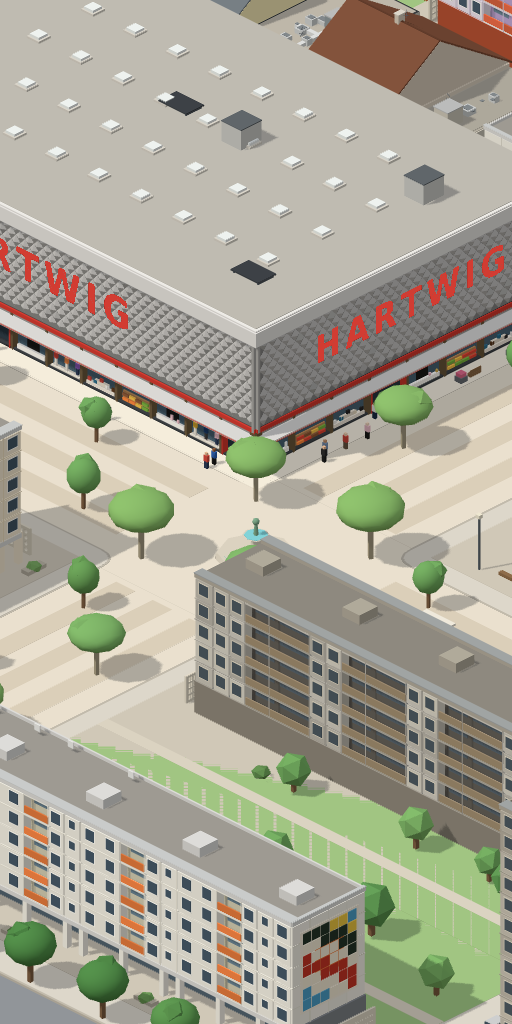
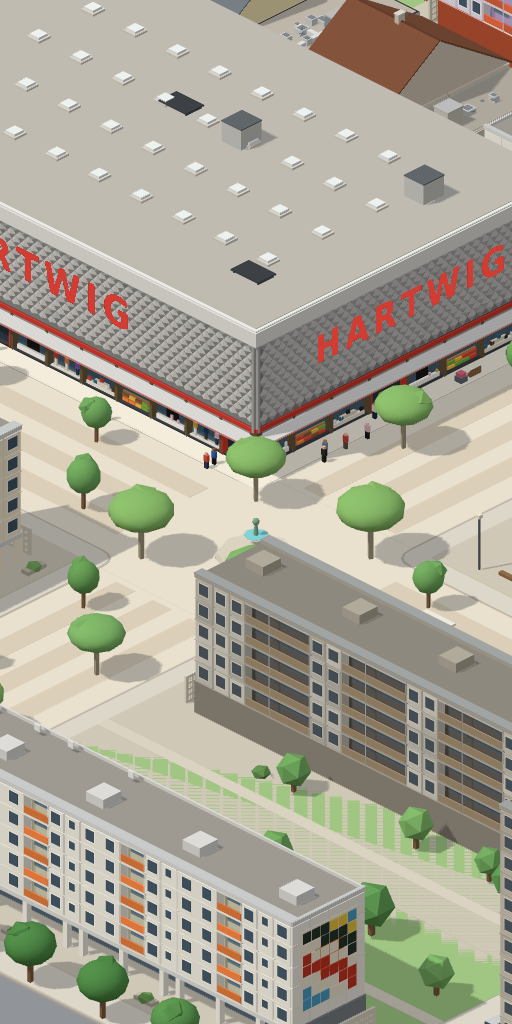
Q21: Test für zwei Berliner Premiumhäuser (Q08), Fingerabdrücke Düsseldorf, Hamburg, Jena nach main-Merge neu
Begründung: Q08 hat Hausdaten und Referenzen von Düsseldorf/Hamburg geändert; Jena Bildabweichung 2,7 %
durch den Merge. Leistung gleich main (984/833/733 Draw Calls, Dreiecke identisch).

Claude-Session: https://claude.ai/code/session_0144nv6MJ9mWBJNLfsqS638z

Changed region(s): [[0.1562, 0.7188, 1.0, 0.9375]]

diff --git a/engine/tests/warenhaus-vielfalt.test.ts b/engine/tests/warenhaus-vielfalt.test.ts
@@ -27,7 +27,8 @@ describe('Q21: Warenhauslagen pro Stadt', () => {
   test('Premiumhäuser behalten ihre 1a-Lage, normale Städte ihren Innenstadtanker', () => {
     for (const stadt of new Set(spiel.haeuser.filter((h) => h.format === 'warenhaus').map((h) => h.stadt))) {
       const alle = spiel.haeuser.filter((h) => h.format === 'warenhaus' && h.stadt === stadt);
-      expect(alle.filter((h) => h.lage === '1a')).toHaveLength(1);
+      // Q08: Berlin besitzt zwei selbständige Premium-1a-Lagen.
+      expect(alle.filter((h) => h.lage === '1a')).toHaveLength(Math.max(1, alle.filter((h) => h.klasse === 'premium').length));
       expect(alle.filter((h) => h.klasse === 'premium').every((h) => h.lage === '1a')).toBe(true);
     }
   });
